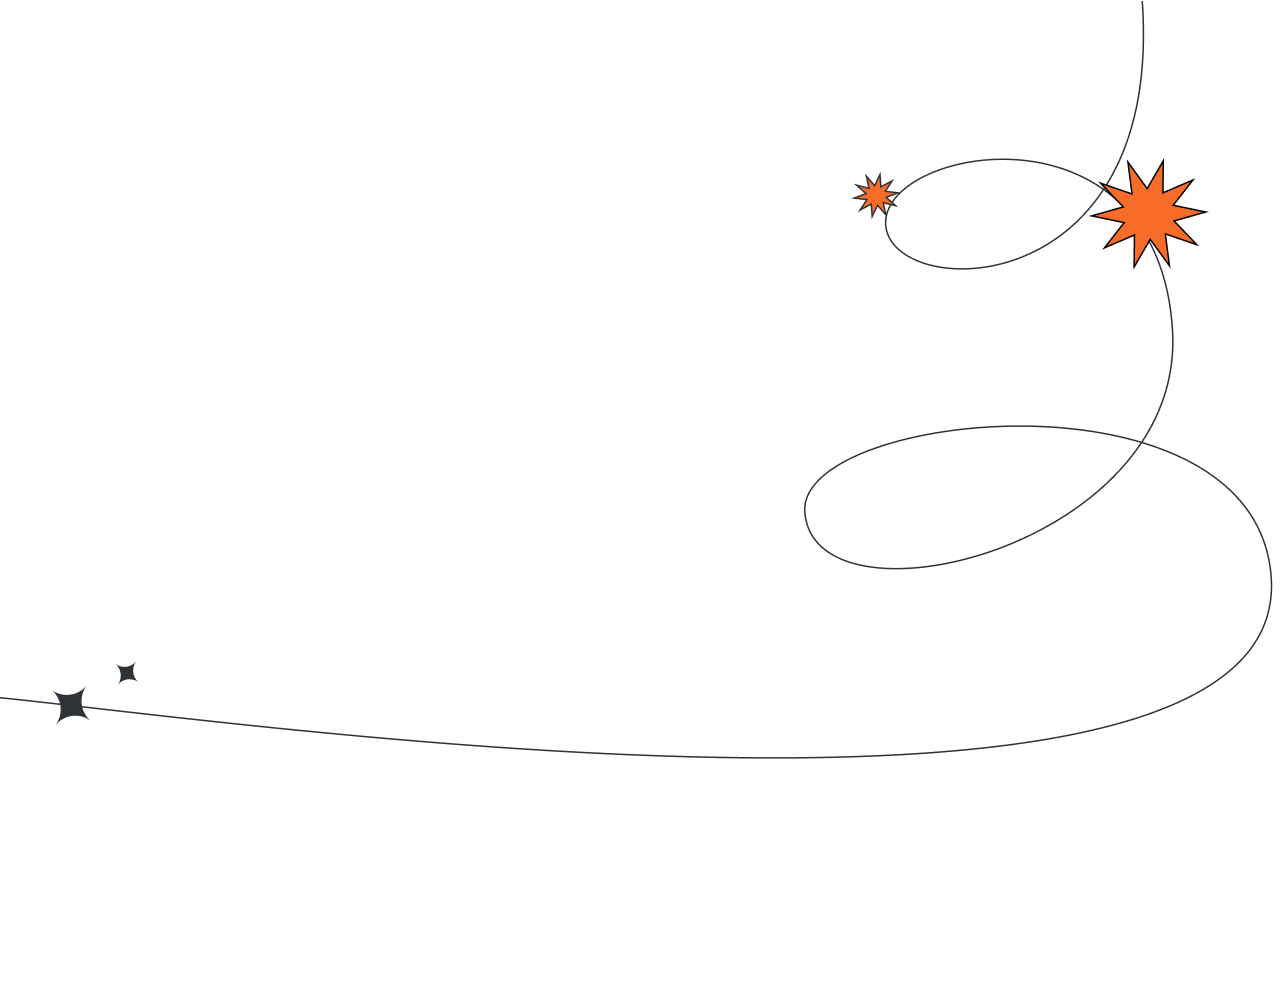
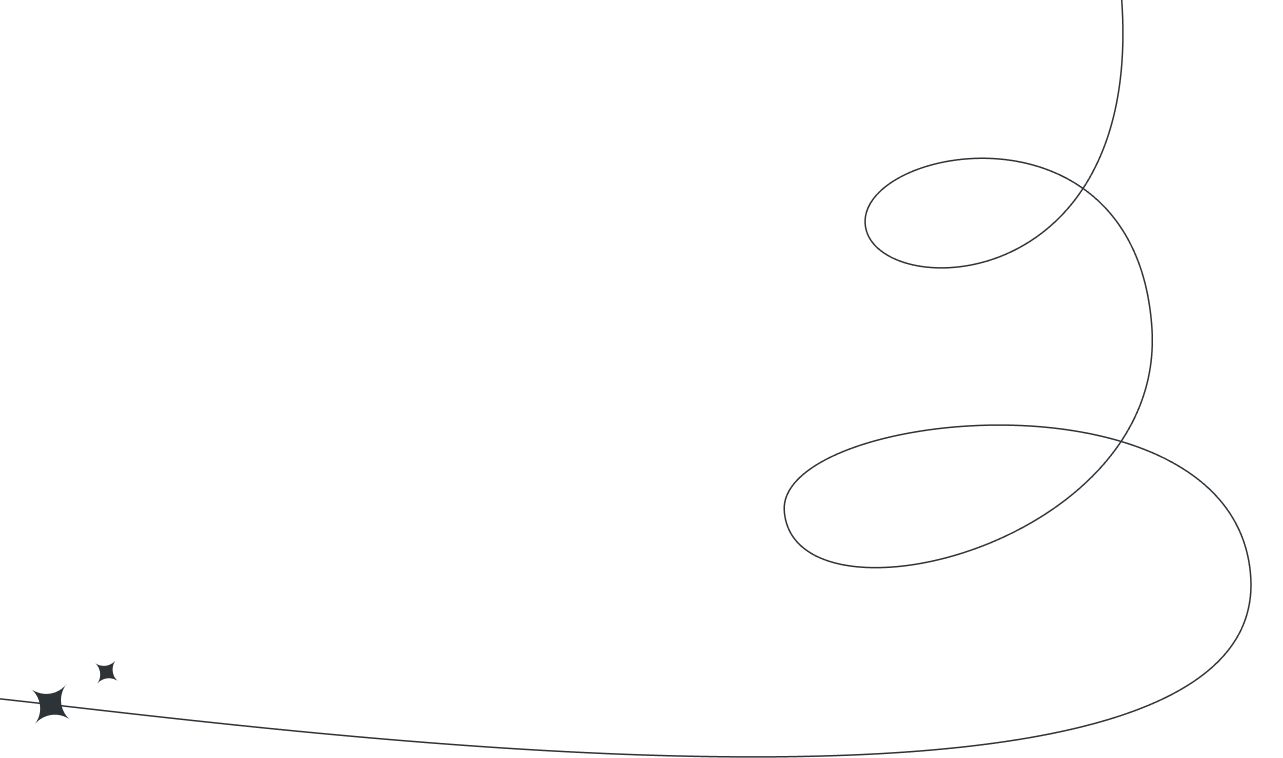
finishing up about_us page

diff --git a/webapp/templates/webapp/about_us.html b/webapp/templates/webapp/about_us.html
@@ -46,13 +46,14 @@
             <div class="about__media-content">
                 <div class="about__media-left">
                     <span class="about__decor-start"></span>
-                    <img class="img__style" src="../../../media/{{ about_content.about_image_one }}" alt="photo: Hyper media promotion">
+                    <img class="img__style" src="../../../media/{{ about_content.about_image_one }}" alt="photo: {{ about_content.about_slug_one }}">
                 </div>
                 <div class="about__media-right">
-                    <img class="img__style" src="../../../media/{{ about_content.about_image_two }}" alt="photo: Smm promotion in la">
+                    <img class="img__style" src="../../../media/{{ about_content.about_image_two }}" alt="photo: {{ about_content.about_slug_two }}">
                 </div>
             </div>
         </div>
-        <span class="about-page__decor"></span>
+
     </section>
+    <span class="about-page__decor"></span>
 {% endblock %}

diff --git a/webapp/static/webapp/main.css b/webapp/static/webapp/main.css
@@ -91,6 +91,7 @@
     height: 64px;
     border-top: 1px solid var(--main);
     border-bottom: 1px solid var(--main);
+    background: var(--page-background);
 }
 .marquee{
     padding-left: 30px;
@@ -189,14 +190,13 @@
     overflow: visible;
 }
 .about-page__decor{
-    z-index: -1;
+    z-index: -2;
     position: absolute;
     width: 100%;
-    top: 0;
+    height: 100%;
     left: 0;
-    background: url("../../../static/img/hyper_media_pro_decor_bkg_about_page.png") center no-repeat;
-    background-size: cover;
-    overflow: visible;
+    bottom: -200px;
+    background: url("../../../static/img/hyper_media_pro_decor_bkg_about_page.png") center bottom / contain no-repeat;
 }
 
 

diff --git a/static/styles/styles.css b/static/styles/styles.css
@@ -21,6 +21,9 @@ body{
     line-height: 1.3;
     background: var(--page-background);
 }
+main{
+    position: relative;
+}
 h1, h2 {
     font-family: "Melodrama", sans-serif;
     font-size: 84px;

diff --git a/webapp/admin.py b/webapp/admin.py
@@ -1,4 +1,23 @@
+import os
+
 from django.contrib import admin
+from django.utils.text import slugify
+
 from .models import AboutPageModel
 
-admin.site.register(AboutPageModel)
+class AboutPageAdmin(admin.ModelAdmin):
+    def save_model(self, request, obj, form, change):
+        image_filenames = [os.path.basename(obj.about_image_one.name), os.path.basename(obj.about_image_two.name)]
+
+        for i, image_filename in enumerate(image_filenames):
+            image_filenames[i] = image_filename.replace("cfakepath", "").rsplit('.', 1)[0]
+
+            if i == 0 and not obj.about_slug_one:
+                obj.about_slug_one = slugify(image_filenames[i])
+            elif i == 1 and not obj.about_slug_two:
+                obj.about_slug_two = slugify(image_filenames[i])
+
+        super().save_model(request, obj, form, change)
+
+
+admin.site.register(AboutPageModel, AboutPageAdmin)

diff --git a/webapp/models.py b/webapp/models.py
@@ -1,5 +1,7 @@
 from django.db import models
 from django.utils.safestring import mark_safe
+from django.utils.text import slugify
+
 
 # Create your models here.
 
@@ -47,15 +49,12 @@ class AboutPageModel(models.Model):
     about_title = models.CharField(max_length=100)
     about_description = models.TextField()
     about_image_one = models.ImageField(upload_to='about_page_images/')
-    about_slug_one = models.SlugField(default="")
+    about_slug_one = models.SlugField(default="", blank=True)
     about_image_two = models.ImageField(upload_to='about_page_images/')
-    about_slug_two = models.SlugField(default="")
+    about_slug_two = models.SlugField(default="", blank=True)
 
     def __str__(self):
         return self.about_title
-
-    def safe_about_text(self):
-        return mark_safe(self.about_description)
 
     class Meta:
         verbose_name_plural = "About page"

diff --git a/webapp/migrations/0007_alter_aboutpagemodel_about_slug_one_and_more.py b/webapp/migrations/0007_alter_aboutpagemodel_about_slug_one_and_more.py
@@ -1,0 +1,23 @@
+# Generated by Django 4.1.7 on 2023-11-05 14:10
+
+from django.db import migrations, models
+
+
+class Migration(migrations.Migration):
+
+    dependencies = [
+        ('webapp', '0006_aboutpagemodel_about_slug_one_and_more'),
+    ]
+
+    operations = [
+        migrations.AlterField(
+            model_name='aboutpagemodel',
+            name='about_slug_one',
+            field=models.SlugField(blank=True, default=''),
+        ),
+        migrations.AlterField(
+            model_name='aboutpagemodel',
+            name='about_slug_two',
+            field=models.SlugField(blank=True, default=''),
+        ),
+    ]

diff --git a/webapp/migrations/0006_aboutpagemodel_about_slug_one_and_more.py b/webapp/migrations/0006_aboutpagemodel_about_slug_one_and_more.py
@@ -1,0 +1,23 @@
+# Generated by Django 4.1.7 on 2023-11-05 13:29
+
+from django.db import migrations, models
+
+
+class Migration(migrations.Migration):
+
+    dependencies = [
+        ('webapp', '0005_alter_aboutpagemodel_options'),
+    ]
+
+    operations = [
+        migrations.AddField(
+            model_name='aboutpagemodel',
+            name='about_slug_one',
+            field=models.SlugField(default=''),
+        ),
+        migrations.AddField(
+            model_name='aboutpagemodel',
+            name='about_slug_two',
+            field=models.SlugField(default=''),
+        ),
+    ]
